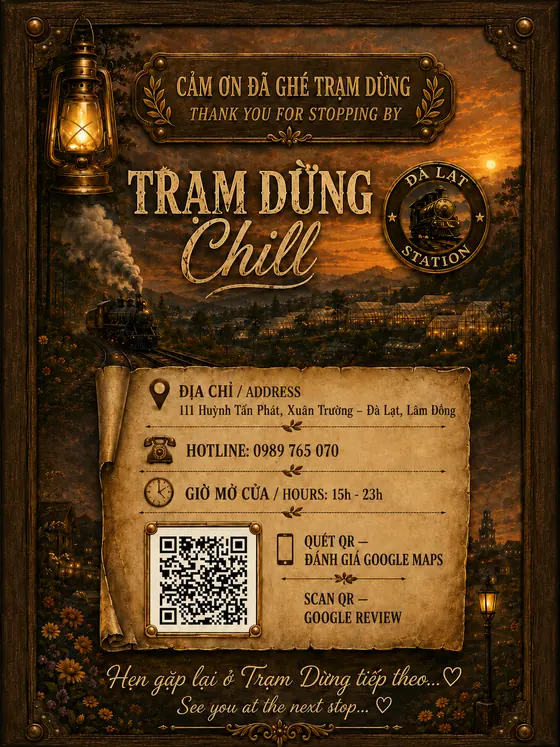
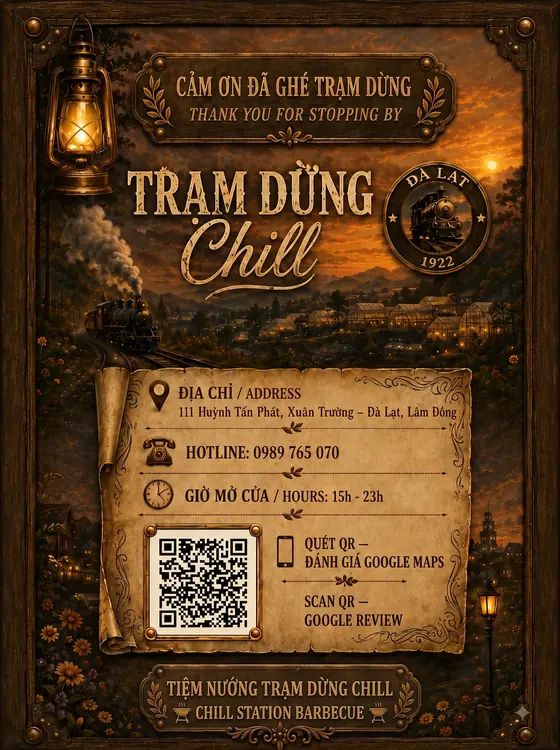
feat(menu): trang cam on ban 1792px — them dong ten quan song ngu duoi chan trang
Trang 26 ban moi: van du dia chi 111 Huynh Tan Phat, hotline, gio mo cua va ma
QR danh gia Google Maps; doi dong ket thanh "TIEM NUONG TRAM DUNG CHILL / CHILL
STATION BARBECUE" thay cho "Hen gap lai o Tram Dung tiep theo".

Anh goc 1792x2400 nen trang nay xuat 4 co (560/1000/1600/1792) — ban 1792 chi
duoc goi khi khach bam phong to doc chu. Tong kho anh 8,7 MB.

seo-geo-verify: 32/32 PASS

diff --git a/menu.html b/menu.html
@@ -1415,10 +1415,10 @@
                     <figcaption class="flip-page-caption">Trang 25/26 — Rượu</figcaption>
                 </figure>
                 <figure class="flip-page" data-page="26" data-group="lien-he" data-group-label="Liên hệ" data-group-i18n="flip.group.contact">
-                    <img src="assets/menu-pages/menu-quan-nuong-da-lat-26-dia-chi-gio-mo-cua-danh-gia-google-1000.webp?v=2f399b4e"
-                         srcset="assets/menu-pages/menu-quan-nuong-da-lat-26-dia-chi-gio-mo-cua-danh-gia-google-560.webp?v=497c689f 560w, assets/menu-pages/menu-quan-nuong-da-lat-26-dia-chi-gio-mo-cua-danh-gia-google-1000.webp?v=2f399b4e 1000w"
+                    <img src="assets/menu-pages/menu-quan-nuong-da-lat-26-dia-chi-gio-mo-cua-danh-gia-google-1792.webp?v=f32bd6db"
+                         srcset="assets/menu-pages/menu-quan-nuong-da-lat-26-dia-chi-gio-mo-cua-danh-gia-google-560.webp?v=e8a640a8 560w, assets/menu-pages/menu-quan-nuong-da-lat-26-dia-chi-gio-mo-cua-danh-gia-google-1000.webp?v=30c478e4 1000w, assets/menu-pages/menu-quan-nuong-da-lat-26-dia-chi-gio-mo-cua-danh-gia-google-1600.webp?v=b1a28cc1 1600w, assets/menu-pages/menu-quan-nuong-da-lat-26-dia-chi-gio-mo-cua-danh-gia-google-1792.webp?v=f32bd6db 1792w"
                          sizes="(min-width: 900px) 46vw, 92vw"
-                         width="1086" height="1448"
+                         width="1792" height="2400"
                          alt="Trang cuối menu Trạm Dừng Chill: địa chỉ 111 Huỳnh Tấn Phát, Xuân Trường - Đà Lạt, hotline 0989 765 070, giờ mở cửa 15h-23h, mã QR đánh giá Google Maps"
                          loading="lazy" decoding="async">
                     <figcaption class="flip-page-caption">Trang 26/26 — Liên hệ</figcaption>
